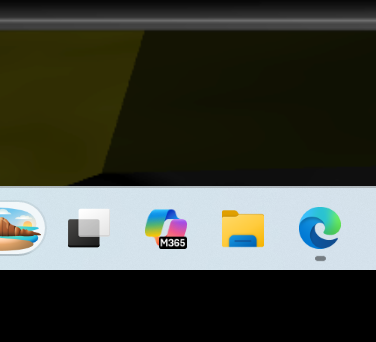
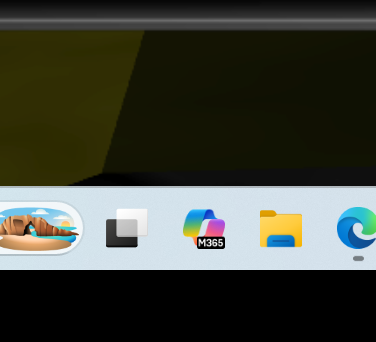
Auto data update

Changed region(s): [[0.0, 0.5848, 1.0, 0.7602]]

diff --git a/crawler.py b/crawler.py
@@ -10,19 +10,15 @@ import pydirectinput
 import easyocr
 import cv2
 import numpy as np
-from PIL import Image
-from mss import mss
 
 try:
     ctypes.windll.shcore.SetProcessDpiAwareness(2)
 except Exception:
-    try:
-        ctypes.windll.user32.SetProcessDPIAware()
-    except Exception:
-        pass
+    pass
 
 reader = easyocr.Reader(['en', 'ko'], gpu=False)
 
+# [좌표 측정기로 찍은 모니터 전체 절대 좌표] 그대로 입력
 COORDS = {
     'buy_tab': (1900, 770),
     'sell_tab': (2630, 770),
@@ -48,10 +44,7 @@ def click_coord(btn_name):
     pydirectinput.mouseUp()
 
 def get_game_screenshot():
-    with mss() as sct:
-        monitor = sct.monitors[1]
-        sct_img = sct.grab(monitor)
-        return Image.frombytes("RGB", sct_img.size, sct_img.bgra, "raw", "BGRX")
+    return pyautogui.screenshot()
 
 def get_item_list_screenshot():
     full_img = get_game_screenshot()
